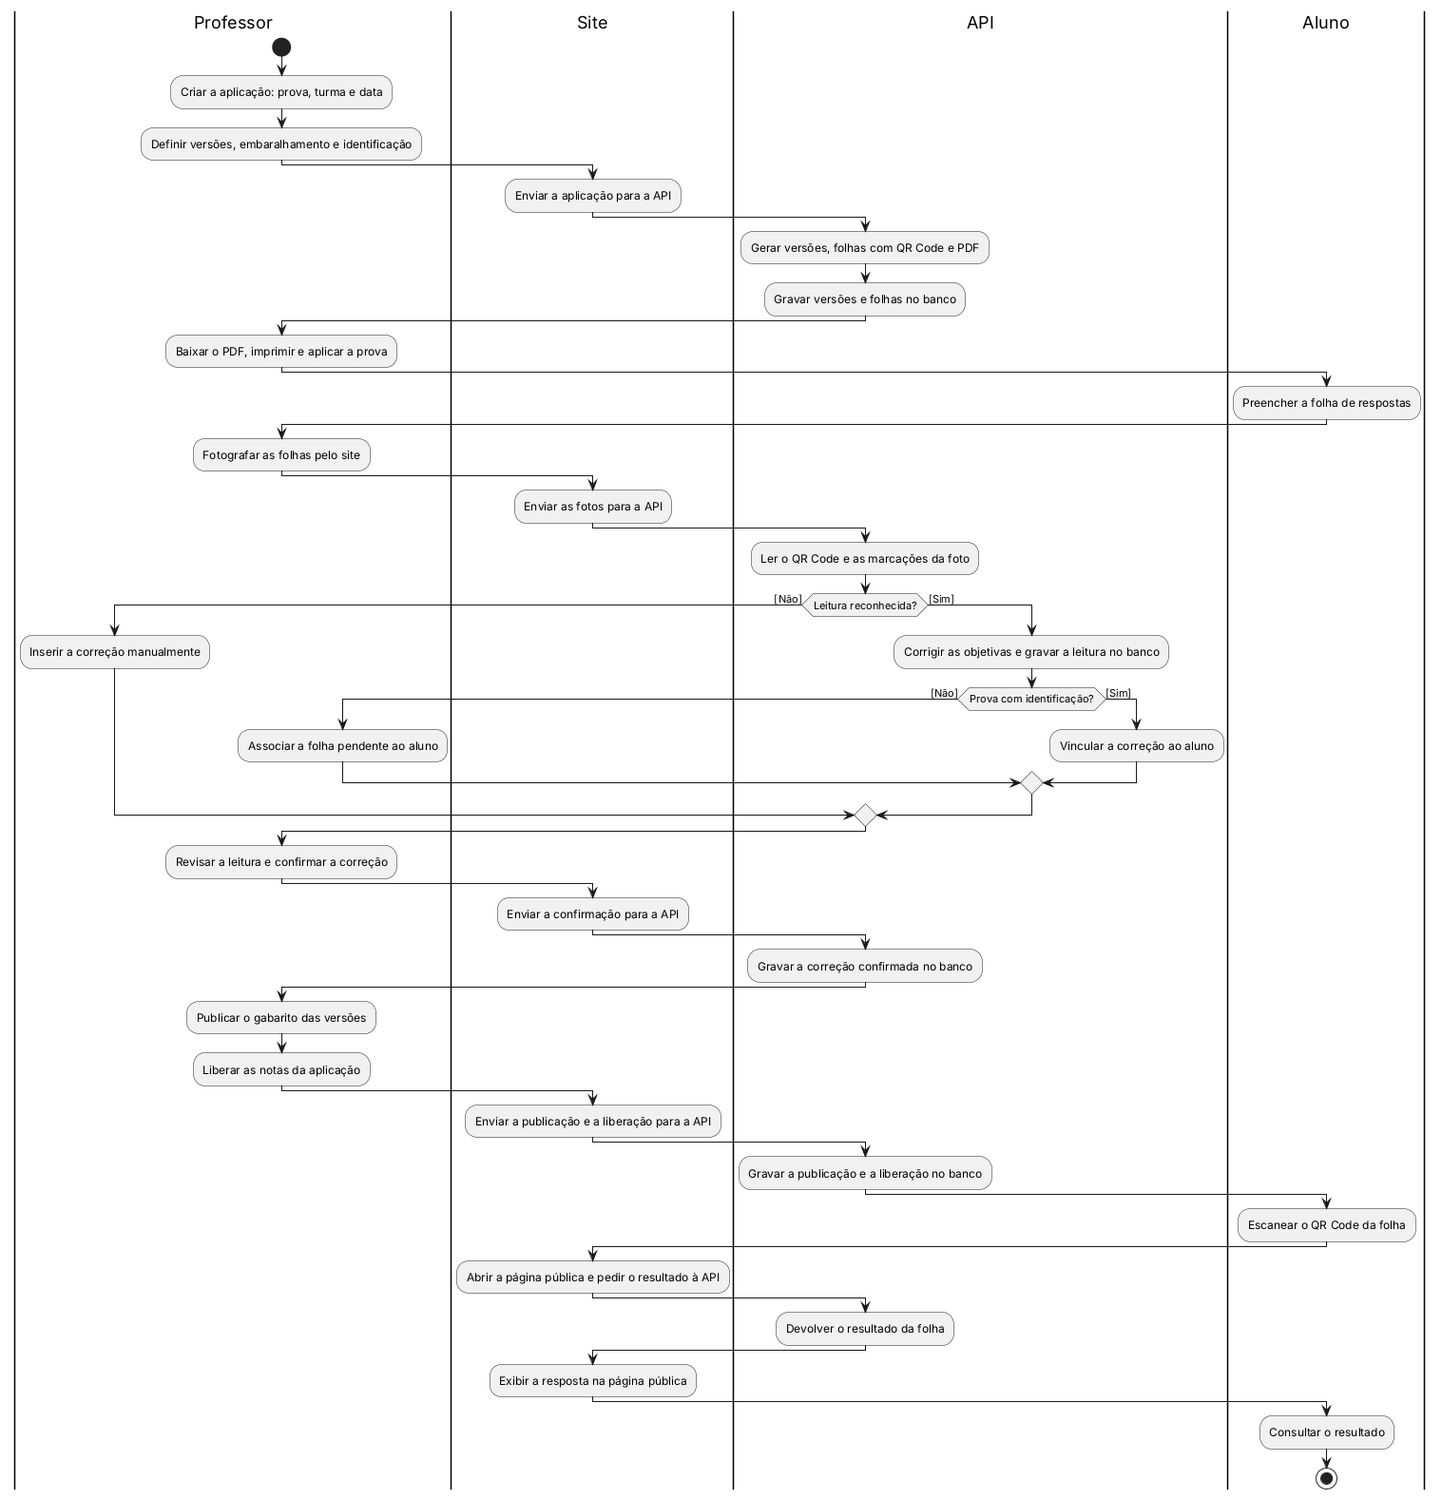
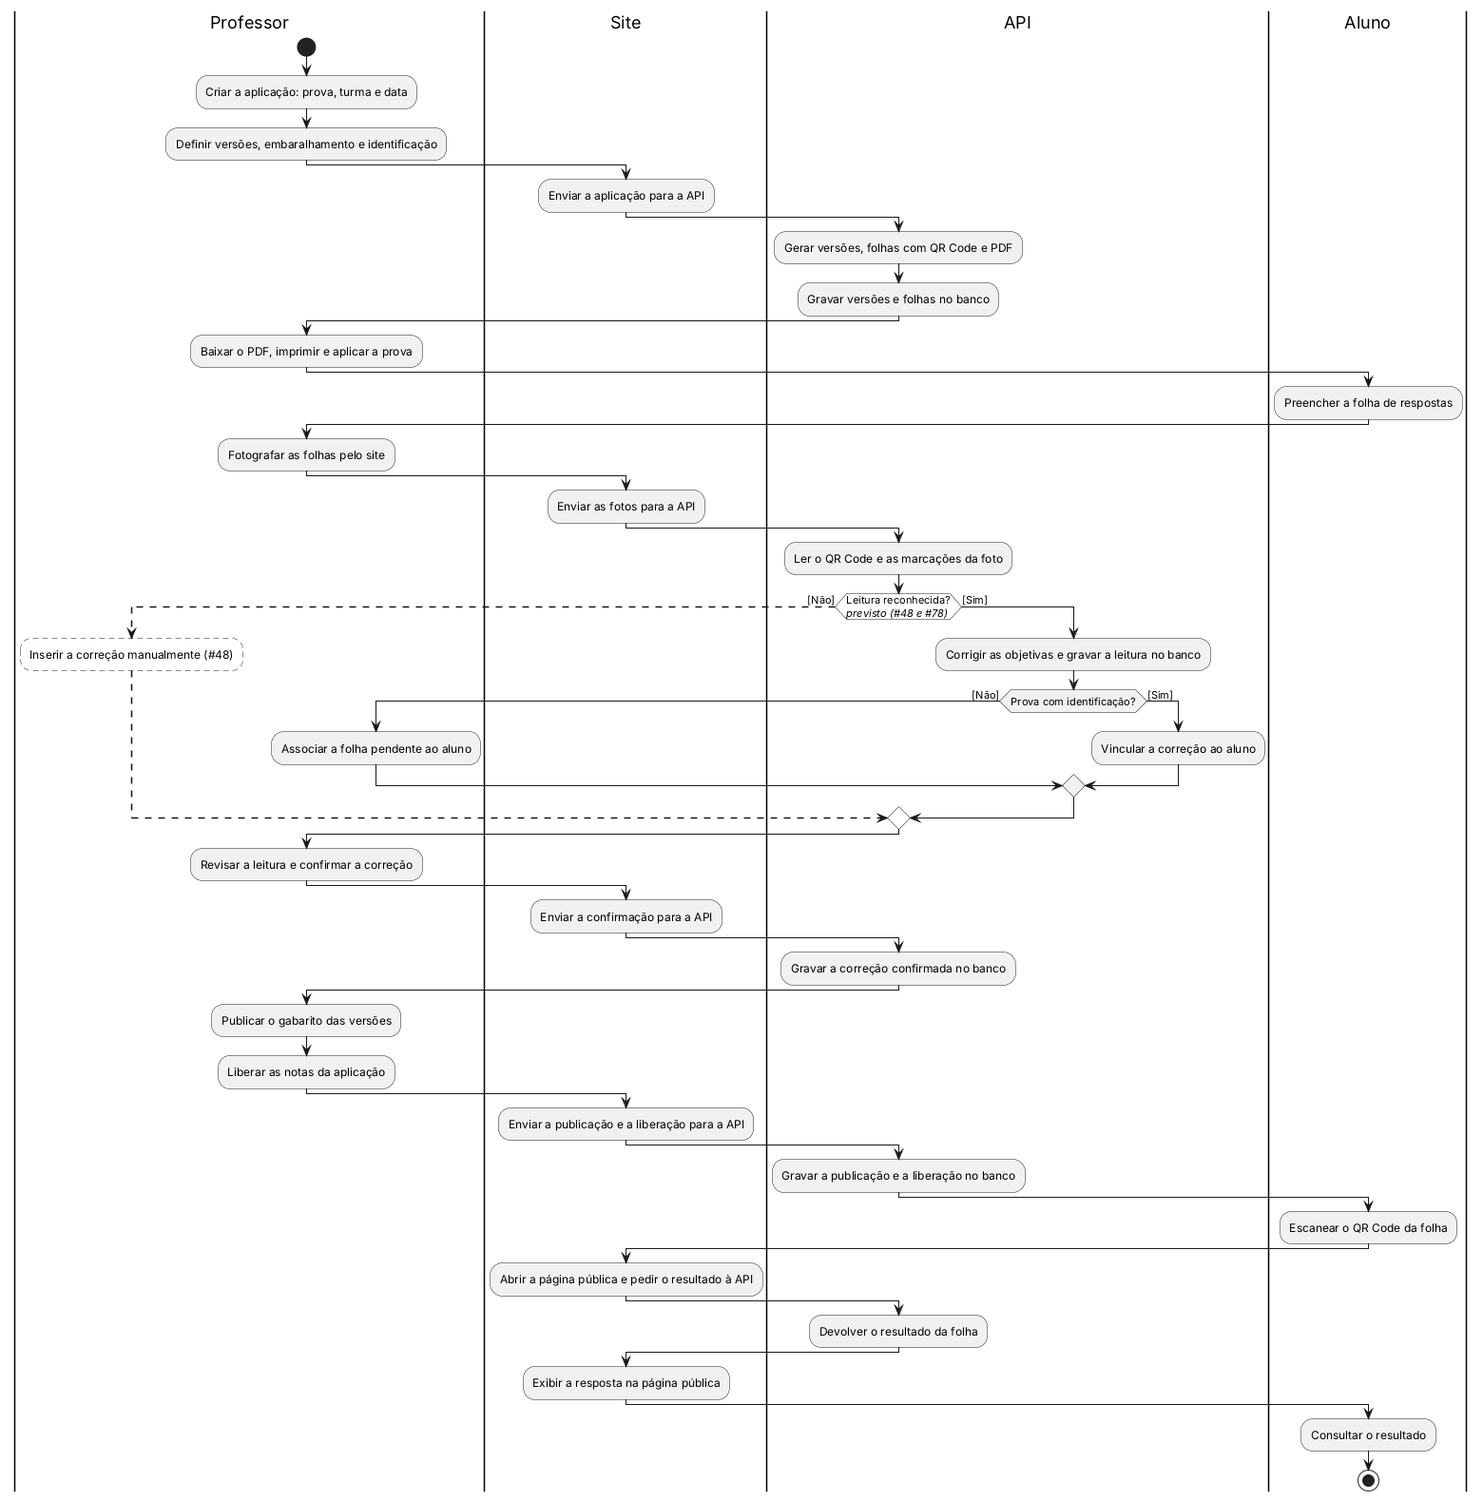
docs: draw the three N2 points dashed until their issues merge
Manual correction (RF30), the grade only after the teacher confirms
(RNF07, RF47) and the grade release blocked until the answer key is
published (P14) are not in the published system yet. They go back to
dashed, each with the issue that builds it next to its label: #48 and
#78, #47 and #46.

The public page check is split back into two decisions, as in the N1:
grades released and sheet corrected, then the planned check that the
correction is confirmed and done.

PlantUML cannot dash a diamond, so a planned decision gets a white fill
and "previsto" in its label, and the branch it adds is dashed. The
walkthrough, the legend and the appendix now say that a dashed point
turns solid when its issue is merged.

Refs #27

diff --git a/docs/uml/activity-diagram.md b/docs/uml/activity-diagram.md
@@ -38,9 +38,9 @@ criação até a nota chegar ao aluno.
 Antes de desenhar, listamos o processo na ordem em que ele acontece na N2. Na N1, tudo rodava
 no navegador, e o PDF e a leitura da foto eram simulados. Na N2, o site manda os dados para a
 API, a API grava no MySQL, o PDF é gerado de verdade e a leitura do QR Code e das marcações é
-real. No diagrama da N1, três pontos deste fluxo eram tracejados, porque estavam nos
-requisitos, mas ainda não no código. Na N2, cada um deles tem uma issue que o implementa, e por
-isso todos aparecem com linha cheia (veja a legenda no Passo 5).
+real. Os itens marcados com _Previsto na N2_ dependem de uma issue que ainda não foi
+mergeada: eles aparecem tracejados no diagrama, com o número da issue ao lado, e viram linha
+cheia quando a issue mergear (veja a legenda no Passo 5).
 
 1. O Professor cria a aplicação, escolhendo a prova, a turma e a data.
 2. O Professor define o número de versões, o embaralhamento (herdado da prova) e se a prova
@@ -50,7 +50,8 @@ isso todos aparecem com linha cheia (veja a legenda no Passo 5).
 4. O Professor baixa o PDF, imprime e aplica a prova, e o Aluno preenche a folha de respostas.
 5. O Professor fotografa as folhas pelo site, e o Site envia as fotos para a API.
 6. A API lê o QR Code e as marcações da foto.
-7. **Decisão:** a leitura foi reconhecida?
+7. **Decisão:** a leitura foi reconhecida? _Previsto na N2 ([#48] e [#78]): hoje a leitura é
+   simulada e sempre reconhece a folha._
    - **[Não]** → o Professor insere a correção manualmente (RF30) e segue para o passo 10.
    - **[Sim]** → a API corrige as objetivas e grava a leitura no banco.
 8. **Decisão:** a prova tem discursivas?
@@ -63,11 +64,11 @@ isso todos aparecem com linha cheia (veja a legenda no Passo 5).
 11. **Decisão:** finalizar a correção?
     - **[Não]** → o Professor salva sem finalizar e volta depois ao passo 10.
     - **[Sim]** → o Professor confirma a correção.
-12. O Site envia a confirmação para a API, que grava a correção confirmada no banco. Só a
-    partir daqui a nota pode chegar ao aluno (RNF07).
+12. O Site envia a confirmação para a API, que grava a correção confirmada no banco.
 13. O Professor publica o gabarito das versões e libera as notas da aplicação, e o Site envia
     a publicação e a liberação para a API.
-14. **Decisão:** o gabarito está publicado? A tela P14 só libera as notas depois disso.
+14. **Decisão:** o gabarito está publicado? _Previsto na N2 ([#46]): hoje "Liberar notas"
+    funciona mesmo sem o gabarito publicado (tela P14)._
     - **[Sim]** → a API grava a publicação e a liberação no banco.
     - **[Não]** → a API recusa a liberação das notas.
 15. O Aluno escaneia o QR Code da folha, e o Site abre a página pública, sem login, e pede o
@@ -78,10 +79,14 @@ isso todos aparecem com linha cheia (veja a legenda no Passo 5).
 17. **Decisão:** o gabarito da versão foi publicado?
     - **[Não]** → a API devolve "ainda não liberado".
     - **[Sim]** → segue para o passo 18.
-18. **Decisão:** as notas foram liberadas e a correção foi confirmada?
+18. **Decisão:** as notas foram liberadas e a folha já foi corrigida?
+    - **[Não]** → a API devolve só o gabarito.
+    - **[Sim]** → segue para o passo 19.
+19. **Decisão:** a correção foi confirmada e concluída? _Previsto na N2 ([#47]): hoje a página
+    mostra a nota mesmo com a correção em andamento (RNF07 e RF47)._
     - **[Não]** → a API devolve só o gabarito.
     - **[Sim]** → a API devolve o gabarito, a nota e os acertos.
-19. O Site exibe a resposta na página pública, e o Aluno consulta o resultado (fim).
+20. O Site exibe a resposta na página pública, e o Aluno consulta o resultado (fim).
 
 ---
 
@@ -92,12 +97,12 @@ um. Na N1, eram três: Professor, Sistema Web e Aluno. Na N2, a raia "Sistema We
 em **Site** e **API**, porque agora são duas partes separadas, e é na passagem de uma para a
 outra que o dado sai do navegador e chega ao banco.
 
-| Raia          | Quem é                                                  | Responsabilidades                                                                                                                                                                                                                                                                                                                     |
-| ------------- | ------------------------------------------------------- | ------------------------------------------------------------------------------------------------------------------------------------------------------------------------------------------------------------------------------------------------------------------------------------------------------------------------------------- |
-| **Professor** | Único usuário com login                                 | Criar a aplicação; definir versões, embaralhamento e identificação; baixar o PDF, imprimir e aplicar a prova; fotografar as folhas pelo site; inserir a correção manualmente quando a leitura falha; associar a folha pendente ao aluno; revisar, lançar as discursivas e confirmar a correção; publicar o gabarito; liberar as notas |
-| **Site**      | O front-end em React, aberto no navegador               | Enviar para a API a aplicação, as fotos, a confirmação, a publicação e a liberação; abrir a página pública do QR Code e exibir a resposta da API                                                                                                                                                                                      |
-| **API**       | O back-end em Express, a única parte que acessa o MySQL | Gerar versões, folhas com QR Code e PDF; ler o QR Code e as marcações; corrigir as objetivas; controlar o status da correção; vincular a correção ao aluno; gravar tudo no banco; decidir o que a página pública mostra; recusar a liberação das notas sem gabarito publicado                                                         |
-| **Aluno**     | Não tem conta; é um registro dentro da turma            | Preencher a folha de respostas; escanear o QR Code da folha; consultar o resultado                                                                                                                                                                                                                                                    |
+| Raia          | Quem é                                                  | Responsabilidades                                                                                                                                                                                                                                                                                                                                |
+| ------------- | ------------------------------------------------------- | ------------------------------------------------------------------------------------------------------------------------------------------------------------------------------------------------------------------------------------------------------------------------------------------------------------------------------------------------ |
+| **Professor** | Único usuário com login                                 | Criar a aplicação; definir versões, embaralhamento e identificação; baixar o PDF, imprimir e aplicar a prova; fotografar as folhas pelo site; inserir a correção manualmente quando a leitura falha (previsto); associar a folha pendente ao aluno; revisar, lançar as discursivas e confirmar a correção; publicar o gabarito; liberar as notas |
+| **Site**      | O front-end em React, aberto no navegador               | Enviar para a API a aplicação, as fotos, a confirmação, a publicação e a liberação; abrir a página pública do QR Code e exibir a resposta da API                                                                                                                                                                                                 |
+| **API**       | O back-end em Express, a única parte que acessa o MySQL | Gerar versões, folhas com QR Code e PDF; ler o QR Code e as marcações; corrigir as objetivas; controlar o status da correção; vincular a correção ao aluno; gravar tudo no banco; decidir o que a página pública mostra; recusar a liberação das notas sem gabarito publicado (previsto)                                                         |
+| **Aluno**     | Não tem conta; é um registro dentro da turma            | Preencher a folha de respostas; escanear o QR Code da folha; consultar o resultado                                                                                                                                                                                                                                                               |
 
 **Por que o banco não é uma raia:** o MySQL não toma decisões nem começa atividades; ele só
 guarda o que a API manda gravar. Por isso aparece no nome das atividades da API ("Gravar a
@@ -135,7 +140,8 @@ Toda vez que o fluxo passa do Site para a API, um dado sai do navegador, e as at
 Incluímos os dois desvios da leitura. Se a API não reconhece a folha (QR Code ilegível, por
 exemplo), o professor insere a correção manualmente (RF30). Se reconhece, a nota é calculada,
 mas só vai sozinha para o aluno quando a prova tem identificação; sem identificação, a folha
-fica pendente até o professor associá-la ao aluno (RF31).
+fica pendente até o professor associá-la ao aluno (RF31). O desvio da correção manual fica
+tracejado até a [#48] e a [#78] mergearem, porque hoje a leitura é simulada e nunca falha.
 
 ![Diagrama de atividades do Correctio, etapa 3](activity-diagram-step-3.png)
 
@@ -143,16 +149,16 @@ fica pendente até o professor associá-la ao aluno (RF31).
 
 Depois incluímos as questões discursivas. Com elas, a correção fica em andamento até o
 professor lançar as notas (RF29 e RF47); sem elas, fica aguardando a confirmação. Nos dois
-casos, o professor pode salvar sem finalizar e voltar depois, e a nota só vale quando ele
-confirma a correção (RNF07).
+casos, o professor pode salvar sem finalizar e voltar depois, até confirmar a correção.
 
 ![Diagrama de atividades do Correctio, etapa 4](activity-diagram-step-4.png)
 
 ### Etapa 5 — Publicação e consulta pelo QR Code
 
 Por fim, incluímos a publicação do gabarito, a liberação das notas e os quatro resultados
-possíveis da página do QR Code (PUB1), todos decididos pela API. A API só libera as notas
-quando o gabarito está publicado (P14). Esta é a versão final.
+possíveis da página do QR Code (PUB1), todos decididos pela API. Dois pontos desta etapa
+ficam tracejados: a recusa da liberação sem o gabarito publicado (P14, [#46]) e a nota só
+depois da confirmação do professor (RNF07 e RF47, [#47]). Esta é a versão final.
 
 ![Diagrama de atividades do Correctio, versão final](activity-diagram.png)
 
@@ -160,25 +166,28 @@ quando o gabarito está publicado (P14). Esta é a versão final.
 
 ## Passo 5 — Ler a legenda
 
-| Traço       | Significado                                      |
-| ----------- | ------------------------------------------------ |
-| Linha cheia | Faz parte da N2.                                 |
-| Tracejado   | Previsto nos requisitos, ainda não existe na N2. |
+| Traço       | Significado                                                      |
+| ----------- | ---------------------------------------------------------------- |
+| Linha cheia | Fluxo da N2.                                                     |
+| Tracejado   | Previsto na N2: vira linha cheia quando a issue ao lado mergear. |
 
-Na N1, três pontos eram tracejados. Na N2, os três passam para linha cheia, porque cada um
-tem uma issue da N2 que o implementa. Por isso, a versão da N2 não tem nenhum ponto tracejado.
+O PlantUML não desenha losango tracejado. Por isso, a decisão prevista aparece com fundo branco
+e "previsto" no rótulo, e o caminho que ela cria fica tracejado. Enquanto a issue não mergeia,
+o fluxo passa por esse losango sempre pelo caminho de linha cheia.
 
-| Ponto tracejado na N1                                                                        | Na N2                                                            | Quem implementa                                                                                                                                                                                                              |
-| -------------------------------------------------------------------------------------------- | ---------------------------------------------------------------- | ---------------------------------------------------------------------------------------------------------------------------------------------------------------------------------------------------------------------------- |
-| "Leitura reconhecida?" e "Inserir a correção manualmente" (RF30)                             | Linha cheia                                                      | [#78](https://github.com/PrieTorres/correctio-app/issues/78) (folha com QR Code ilegível segue para a correção manual) e [#48](https://github.com/PrieTorres/correctio-app/issues/48) (botão "Inserir correção manualmente") |
-| "Correção confirmada e concluída?": nota só depois da confirmação do professor (RNF07, RF47) | Linha cheia, na decisão "Notas liberadas e correção confirmada?" | [#47](https://github.com/PrieTorres/correctio-app/issues/47)                                                                                                                                                                 |
-| "Gabarito publicado?" antes de liberar as notas (tela P14)                                   | Linha cheia                                                      | [#46](https://github.com/PrieTorres/correctio-app/issues/46) ("Liberar notas" fica bloqueado enquanto o gabarito da versão não for publicado, na tela P14 e no servidor)                                                     |
+Na N1, três pontos eram tracejados. Eles continuam tracejados na N2, porque as issues que os
+implementam ainda estão abertas:
 
-**Se alguma dessas issues não entrar na N2,** o ponto dela volta a ficar tracejado, e a
-legenda passa a valer para ele: previsto, ainda não existe na N2. O apêndice mostra como
-tracejar um ponto no PlantUML.
+| Ponto tracejado                                                  | Como aparece no diagrama                                                             | Vira linha cheia quando mergear |
+| ---------------------------------------------------------------- | ------------------------------------------------------------------------------------ | ------------------------------- |
+| "Leitura reconhecida?" e "Inserir a correção manualmente" (RF30) | "Leitura reconhecida? previsto (#48 e #78)" e "Inserir a correção manualmente (#48)" | [#48] e [#78]                   |
+| Nota só depois da confirmação do professor (RNF07 e RF47)        | "Correção confirmada e concluída? previsto (#47)" e "Devolver só o gabarito (#47)"   | [#47]                           |
+| "Gabarito publicado?" antes de liberar as notas (tela P14)       | "Gabarito publicado? previsto (#46)" e "Recusar a liberação das notas (#46)"         | [#46]                           |
 
-### O que mudou da N1 para a N2
+A troca para linha cheia é um item do checklist da [#46], da [#47] e da [#48]: quem fechar cada
+uma atualiza o diagrama, como mostra o apêndice.
+
+### O que muda da N1 para a N2
 
 | Na N1                                                                          | Na N2                                                                              | Onde                                                                                                                                  |
 | ------------------------------------------------------------------------------ | ---------------------------------------------------------------------------------- | ------------------------------------------------------------------------------------------------------------------------------------- |
@@ -202,7 +211,8 @@ Checklist usado para conferir o resultado antes de fechar:
       seguir.
 - [x] O laço "Salvar sem finalizar" volta para a revisão, sem repetir o envio da foto.
 - [x] Quem grava no banco é sempre a API, e o nome da atividade diz isso.
-- [x] A legenda diz o que era tracejado na N1 e qual issue da N2 implementa cada ponto.
+- [x] O que ainda não existe no sistema publicado está tracejado, com a issue ao lado, e a
+      legenda diz quando vira linha cheia.
 - [x] O fluxo cobre RF26 a RF33, RF46, RF47, RNF07 e as telas P14, P15, P16, P17 e PUB1.
 
 ---
@@ -231,15 +241,27 @@ tracejado.
 
 Notação do PlantUML usada nos arquivos:
 
-| No diagrama | No PlantUML                                                                                |
-| ----------- | ------------------------------------------------------------------------------------------ |
-| Raia        | `\|Professor\|`, antes das atividades daquela raia                                         |
-| Atividade   | `:Enviar as fotos para a API;`                                                             |
-| Decisão     | `if (Leitura reconhecida?) then ([Não]) … else ([Sim]) … endif`                            |
-| Laço        | `repeat … backward:Salvar sem finalizar; repeat while (Finalizar?) is ([Não]) not ([Sim])` |
+| No diagrama         | No PlantUML                                                                                |
+| ------------------- | ------------------------------------------------------------------------------------------ |
+| Raia                | `\|Professor\|`, antes das atividades daquela raia                                         |
+| Atividade           | `:Enviar as fotos para a API;`                                                             |
+| Decisão             | `if (Leitura reconhecida?) then ([Não]) … else ([Sim]) … endif`                            |
+| Laço                | `repeat … backward:Salvar sem finalizar; repeat while (Finalizar?) is ([Não]) not ([Sim])` |
+| Decisão prevista    | `if <<planned>> (Gabarito publicado?\n<i>previsto (#46)</i>) then ([Sim])`                 |
+| Atividade tracejada | `:Recusar a liberação das notas (#46); <<planned>>`                                        |
+| Seta tracejada      | `-[dashed]->`, na linha antes e na linha depois da atividade tracejada                     |
 
-Para tracejar um ponto que a N2 deixar de fora, acrescente `<<planned>>` no fim da atividade
-(por exemplo, `:Inserir a correção manualmente; <<planned>>`) e coloque `-[dashed]->` na linha
-antes e na linha depois dela. O estilo `.planned`, que desenha a caixa tracejada, já está
-declarado no começo do `activity-diagram.puml`. Depois, gere as imagens de novo e atualize a
-legenda do Passo 5.
+Quando a issue de um ponto tracejado mergear, passe o ponto para linha cheia:
+
+1. apague o `<<planned>>` da atividade e do `if` da decisão;
+2. apague as setas `-[dashed]->` em volta da atividade;
+3. tire o "previsto (#…)" do rótulo do losango e o número da issue do nome da atividade;
+4. gere as imagens de novo e atualize o Passo 2 e a legenda do Passo 5.
+
+O ponto da correção manual ([#48] e [#78]) também aparece nas etapas 3 e 4, então faça o mesmo
+em `activity-diagram-steps.puml`.
+
+[#46]: https://github.com/PrieTorres/correctio-app/issues/46
+[#47]: https://github.com/PrieTorres/correctio-app/issues/47
+[#48]: https://github.com/PrieTorres/correctio-app/issues/48
+[#78]: https://github.com/PrieTorres/correctio-app/issues/78
